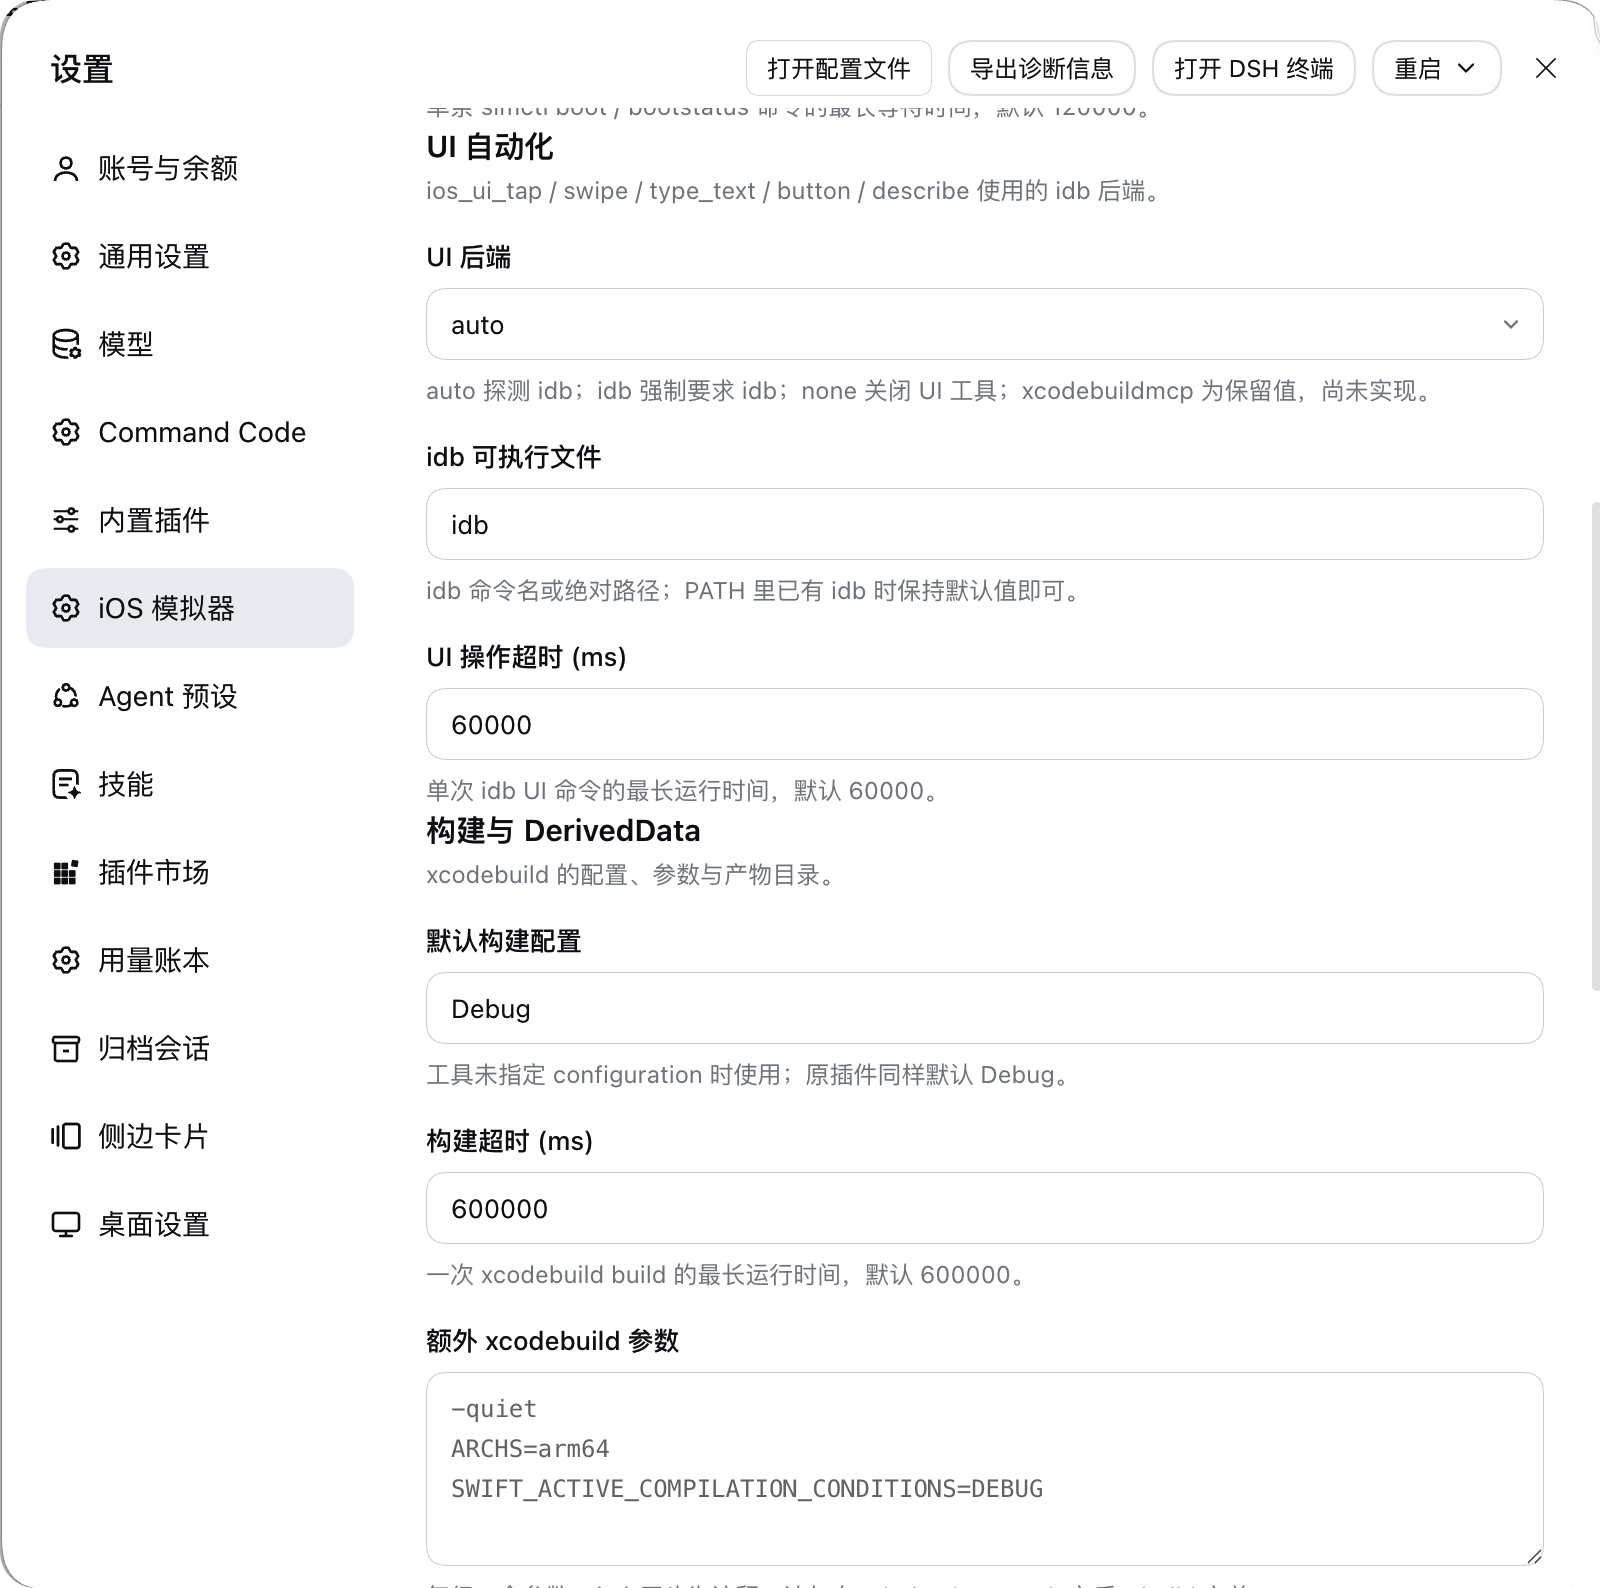
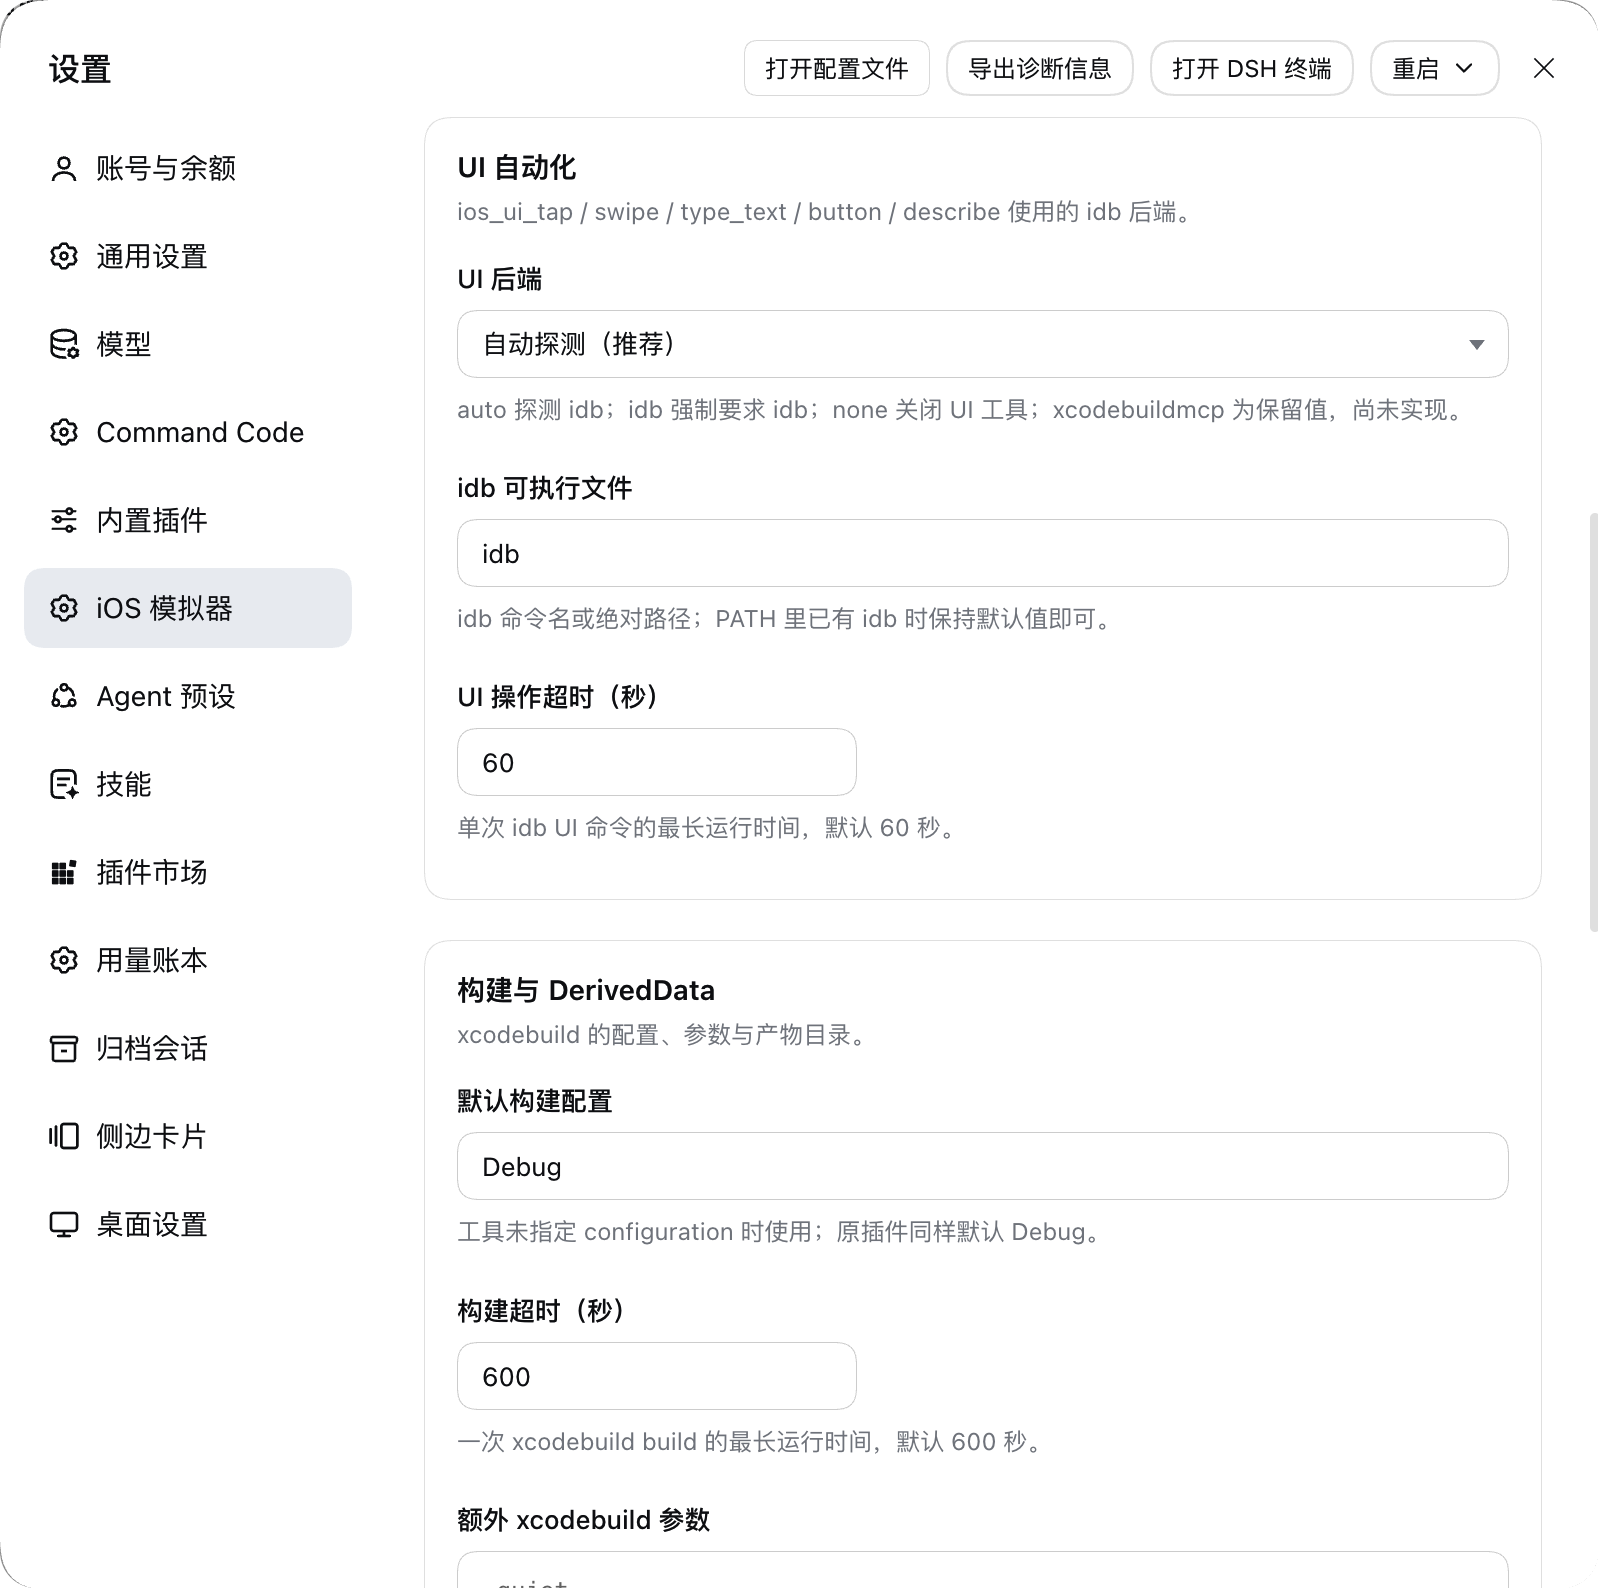
docs: refresh the marketplace screenshots
The four shots in `assets/` predated the 1.1.0 settings-page rework: they
showed the older flow layout, the switch labels ("on") and the boot
timeout in milliseconds, so the captions had to warn that the page looked
different now. Replace them with a capture of the current page and drop
that warning.

- The new shots are the same window in the same framing (1598x1588
  against 1600x1588) and cover the same four scroll positions: simulator
  and device; UI automation and builds; build tail and logs; output
  directories and the host check. `screenshots.json` still lists the same
  four paths in the same order, so only the files change.
- Re-cut captions 3 and 4 to what they actually show: the DerivedData and
  code-signing fields moved into shot 3, the output directories moved into
  shot 4, and no shot carries the save bar because it only appears once an
  edit is staged.
- Say that the capture ran the Chinese locale, so the section headings are
  Chinese while every field name is the same in both editions.
- The limitations note no longer claims the page was looked at once.

Verified with `pnpm run check` (102 tests, the bundle consistency gate and
the real-host mount) and against `screenshots.json`: four entries, within
1-8, relative, each file present.

diff --git a/README.md b/README.md
@@ -129,23 +129,23 @@ The original plugin's `userConfig` (`default_device`, `ui_backend`) and its envi
 
 ## Screenshots
 
-All four are the live page in DSH Desktop, in the order you scroll it — nothing is mocked up. They were captured before the card layout and the sticky action bar that 1.1.0 ships, so they show the same controls in the earlier arrangement, and the save button these captions mention is now the page's action bar.
+All four are the live page in DSH Desktop, in the order you scroll it — nothing is mocked up. They show the 1.1.0 card layout and the timeouts in whole seconds; the save bar only appears while an edit is staged, so it is not in these shots. The window ran the Chinese locale, so the section headings are Chinese while every field name is the same in both languages.
 
 **1. Simulator and device** — the fields every `ios_*` call reads:
 
-![The iOS Simulator settings page in DSH Desktop: the simulator-and-device group with default device, default runtime, auto boot, auto open and the boot timeout](https://raw.githubusercontent.com/zhz8888/dsh-ios-simulator-helper/main/assets/settings-page-1-simulator-and-device.png)
+![The iOS Simulator settings page in DSH Desktop: the simulator-and-device card with the default device, default runtime, auto boot, auto open and the boot timeout](https://raw.githubusercontent.com/zhz8888/dsh-ios-simulator-helper/main/assets/settings-page-1-simulator-and-device.png)
 
 **2. UI automation and builds** — the `idb` backend and its timeout, then the `xcodebuild` configuration, build timeout and extra arguments:
 
 ![The page scrolled to UI automation and build settings: UI backend, idb binary, UI timeout, default configuration, build timeout and the extra xcodebuild arguments](https://raw.githubusercontent.com/zhz8888/dsh-ios-simulator-helper/main/assets/settings-page-2-ui-automation-and-build.png)
 
-**3. Logs and output** — the DerivedData directory and code-signing switch, then the `ios_logs` window and character limit, then where screenshots, logs and DerivedData land:
+**3. Build tail and logs** — the extra `xcodebuild` arguments, the DerivedData directory and the code-signing switch, then the `ios_logs` window and character limit:
 
-![The page scrolled further: DerivedData directory, code signing during builds, the default log window and character limit, and the data and screenshot directories](https://raw.githubusercontent.com/zhz8888/dsh-ios-simulator-helper/main/assets/settings-page-3-logs-and-output.png)
+![The page scrolled further: the extra xcodebuild arguments, the DerivedData directory, code signing during builds, and the default log window and character limit](https://raw.githubusercontent.com/zhz8888/dsh-ios-simulator-helper/main/assets/settings-page-3-logs-and-output.png)
 
-**4. Host check and save** — the macOS verdict and the detected platform, the two detection buttons, and the save button:
+**4. Output directories and the host check** — where screenshots, logs and DerivedData land, then the macOS verdict with the two detection buttons:
 
-![The bottom of the page: the host check reading "macOS — supported (darwin/arm64)", the run-diagnostic and refresh buttons, and the save button](https://raw.githubusercontent.com/zhz8888/dsh-ios-simulator-helper/main/assets/settings-page-4-host-check.png)
+![The bottom of the page: the data and screenshot directories, then the host check reading "macOS — supported (darwin/arm64)" with the run-diagnostic and refresh buttons](https://raw.githubusercontent.com/zhz8888/dsh-ios-simulator-helper/main/assets/settings-page-4-host-check.png)
 
 `screenshots.json` lists these four files in this order next to `package.json` in the repository, which is how a plugin market finds them.
 
@@ -206,7 +206,7 @@ Two behaviours deserve their own note:
 - `ios_logs` reads `log show` (no live stream), with a configurable and clamped window and length.
 - Swift macros (`@State`, `#Preview`) need `swift-plugin-server`, which cannot start its nested `sandbox-exec` when the caller is itself sandboxed. `ios_build_app` then retries the build once with `OTHER_SWIFT_FLAGS=-disable-sandbox` and reports `macroSandboxRetry: true`; a caller that was never sandboxed never sees a retry.
 - The generated project template is byte-for-byte the original's (an Xcode 14-compatible `project.pbxproj`, `objectVersion = 56`) and does not track newer Xcode templates.
-- **The settings page has been looked at once, in DSH Desktop**: the plugin was installed into the `desktop` profile, the page opened at Settings → iOS Simulator, and the four shots in `assets/` are that session, top to bottom. Dark theme, narrow-width wrapping and the non-macOS notice are covered by the render tests, not by eye.
+- **The settings page has only been checked by eye in DSH Desktop**: the plugin is installed into the `desktop` profile, and the four shots in `assets/` are the latest manual pass, top to bottom. Dark theme, narrow-width wrapping and the non-macOS notice are still covered by the render tests, not by eye.
 - No credential handling: the plugin never reads or forwards key/token/secret environment variables.
 
 ## Releases

diff --git a/README.zh-CN.md b/README.zh-CN.md
@@ -129,23 +129,23 @@ dsh plugin --profile <profile> add @zhz8888/dsh-ios-simulator-helper \
 
 ## 截图
 
-四张都是 DSH Desktop 里这份代码跑起来的真实页面，按从上到下的滚动顺序排列，没有做图。它们拍于 1.1.0 的卡片式布局与底部操作条之前，展示的是同一批控件的旧排版；下文提到的保存按钮，如今是页面底部的操作条。
+四张都是 DSH Desktop 里这份代码跑起来的真实页面，按从上到下的滚动顺序排列，没有做图。展示的是 1.1.0 的卡片式布局与按整秒填写的超时；保存操作条只在有暂存改动时出现，因此这几张里看不到它。截图时窗口用的是中文界面，分区标题为中文，字段名两种语言一致。
 
 **1. 模拟器与设备** —— 每次 `ios_*` 调用都会读取的字段：
 
-![DSH Desktop 里的 iOS 模拟器设置页：模拟器与设备分组，含默认设备、默认运行时、自动启动、自动打开窗口与启动超时](https://raw.githubusercontent.com/zhz8888/dsh-ios-simulator-helper/main/assets/settings-page-1-simulator-and-device.png)
+![DSH Desktop 里的 iOS 模拟器设置页：模拟器与设备卡片，含默认设备、默认运行时、自动启动、自动打开窗口与启动超时](https://raw.githubusercontent.com/zhz8888/dsh-ios-simulator-helper/main/assets/settings-page-1-simulator-and-device.png)
 
 **2. UI 自动化与构建** —— `idb` 后端与其超时，接着是 `xcodebuild` 的配置、构建超时与额外参数：
 
 ![滚动到 UI 自动化与构建分组：UI 后端、idb 可执行文件、UI 操作超时、默认构建配置、构建超时与额外 xcodebuild 参数](https://raw.githubusercontent.com/zhz8888/dsh-ios-simulator-helper/main/assets/settings-page-2-ui-automation-and-build.png)
 
-**3. 日志与输出** —— DerivedData 目录与代码签名开关，`ios_logs` 的窗口与字符上限，以及截图/日志/DerivedData 的落盘位置：
+**3. 构建尾部与日志** —— 额外 `xcodebuild` 参数、DerivedData 目录与代码签名开关，接着是 `ios_logs` 的窗口与字符上限：
 
-![继续向下滚动：DerivedData 目录、构建时禁用代码签名、默认日志窗口与默认日志字符上限，以及数据目录与截图目录](https://raw.githubusercontent.com/zhz8888/dsh-ios-simulator-helper/main/assets/settings-page-3-logs-and-output.png)
+![继续向下滚动：额外 xcodebuild 参数、DerivedData 目录、构建时禁用代码签名，以及默认日志窗口与默认日志字符上限](https://raw.githubusercontent.com/zhz8888/dsh-ios-simulator-helper/main/assets/settings-page-3-logs-and-output.png)
 
-**4. 宿主检测与保存** —— macOS 判定与检测到的平台、两个检测按钮，以及保存按钮：
+**4. 输出目录与宿主检测** —— 截图/日志/DerivedData 的落盘位置，然后是 macOS 判定与两个检测按钮：
 
-![页面底部：宿主系统判定为「macOS —— 符合要求（darwin/arm64）」、检测环境与刷新模拟器按钮，以及保存按钮](https://raw.githubusercontent.com/zhz8888/dsh-ios-simulator-helper/main/assets/settings-page-4-host-check.png)
+![页面底部：数据目录与截图目录，以及宿主系统判定为「macOS —— 符合要求（darwin/arm64）」与检测环境、刷新模拟器两个按钮](https://raw.githubusercontent.com/zhz8888/dsh-ios-simulator-helper/main/assets/settings-page-4-host-check.png)
 
 `screenshots.json` 就在仓库里的 `package.json` 旁边按这个顺序列出四张图，插件市场据此展示。
 
@@ -206,7 +206,7 @@ dsh plugin --profile <profile> add @zhz8888/dsh-ios-simulator-helper \
 - `ios_logs` 与原插件一样只做 `log show`（不做实时流），窗口与长度可配置且有上限。
 - Swift 宏（`@State`、`#Preview` 等）需要 `swift-plugin-server` 启动 `sandbox-exec`；调用方本身已在沙箱内时这一步会失败，`ios_build_app` 会自动补上 `OTHER_SWIFT_FLAGS=-disable-sandbox` 重试一次，并在结果里标记 `macroSandboxRetry: true`。从未处于沙箱内的调用方不会触发重试。
 - 生成工程模板与原插件逐字保留（`project.pbxproj` 为 Xcode 14 兼容格式、`objectVersion = 56`），未跟随新版 Xcode 的模板变化。
-- **设置页已在 DSH Desktop 里人工目视确认过一次**：把插件装进 `desktop` profile，打开「设置 → iOS 模拟器」，`assets/` 里那四张按顺序就是那次的真实界面。暗色主题、窄屏换行与非 macOS 提示条仍只有渲染测试覆盖，没有目视。
+- **设置页只在 DSH Desktop 里做过人工目视确认**：插件装在 `desktop` profile，`assets/` 里那四张按顺序就是最近一次手动检查的界面。暗色主题、窄屏换行与非 macOS 提示条仍只有渲染测试覆盖，没有目视。
 - 插件不触碰凭据：不读取、不转发任何含 key/token/secret 的环境变量。
 
 ## 版本与发布
